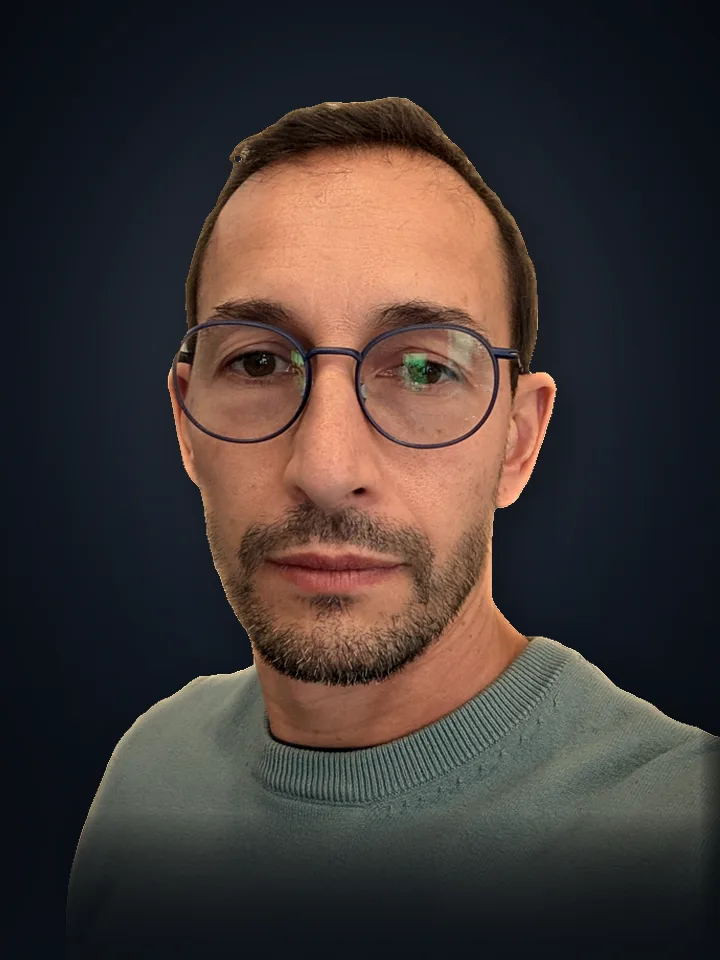
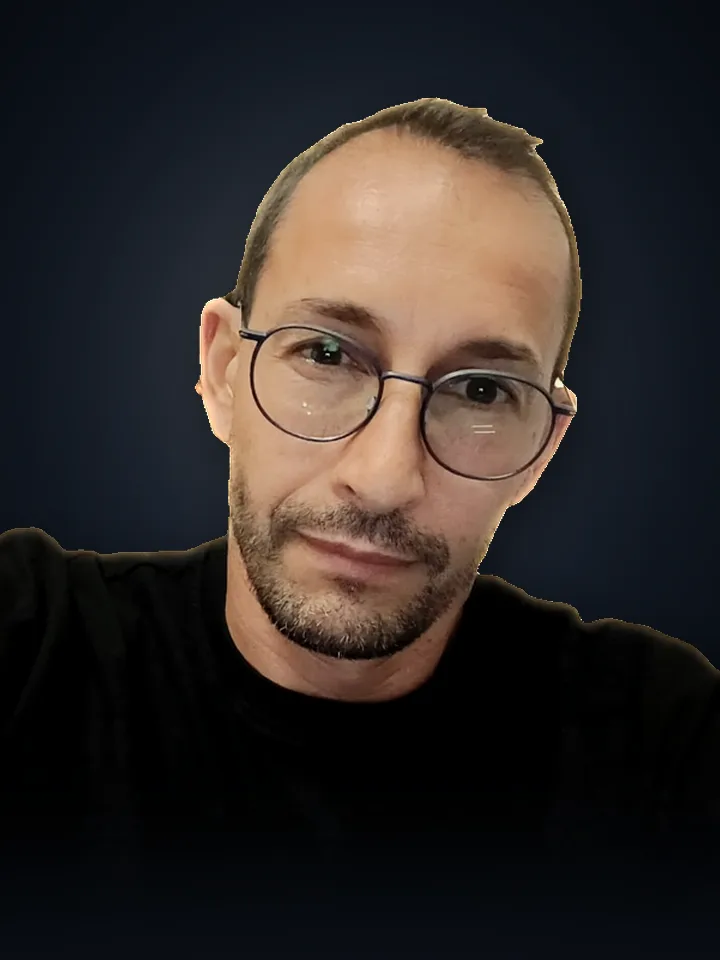
Títulos grandes ajustam-se à largura do ecrã (Android com texto aumentado cortava as letras) e nova foto do Orlando
Claude-Session: https://claude.ai/code/session_01TTX9f2C5L8zJ1uV9txTYkt

diff --git a/src/sections/Hero.tsx b/src/sections/Hero.tsx
@@ -4,12 +4,13 @@ import { useMotion } from '../context/MotionContext'
 import { useInView } from '../hooks/useInView'
 import { heroState } from '../three/state'
 import { chars } from '../lib/split'
+import { useFitLines } from '../hooks/useFitLines'
 
 const HeroScene = lazy(() => import('../three/HeroScene'))
 
 function Letters({ text, className }: { text: string; className?: string }) {
   return (
-    <span className={`mask ${className ?? ''}`} aria-hidden>
+    <span className={`hero-line mask ${className ?? ''}`} aria-hidden>
       <span className="flex justify-center">
         {chars(text).map((c, i) => (
           <span key={i} className="hero-char inline-block will-change-transform">
@@ -24,6 +25,8 @@ function Letters({ text, className }: { text: string; className?: string }) {
 export function Hero() {
   const root = useRef<HTMLElement>(null)
   const stage = useRef<HTMLDivElement>(null)
+  const title = useRef<HTMLHeadingElement>(null)
+  useFitLines(title, '.hero-line', '.hero-char')
   const { reduced, mobile, ready } = useMotion()
   const visible = useInView(root, '100px')
   // telemóvel: mostra a imagem renderizada do poste (igual ao 3D) e só carrega
@@ -116,7 +119,7 @@ export function Hero() {
         )}
 
         <div className="pointer-events-none absolute inset-0 flex h-full flex-col items-center justify-end pb-[12svh] text-center md:justify-center md:pb-0">
-          <h1 className="hero-title display relative z-0 text-cream" aria-label="Barbearia Orlando">
+          <h1 ref={title} className="hero-title display relative z-0 w-full text-cream" aria-label="Barbearia Orlando">
             <Letters text="BARBEARIA" className="text-[16.5vw] md:text-[12.5vw]" />
             <Letters text="ORLANDO" className="-mt-[0.06em] text-[16.5vw] md:text-[12.5vw]" />
           </h1>

diff --git a/src/hooks/useFitLines.ts b/src/hooks/useFitLines.ts
@@ -1,0 +1,39 @@
+import { useEffect, type RefObject } from 'react'
+
+/**
+ * Garante que as linhas de um título grande cabem na largura disponível.
+ * Alguns Android (ex.: navegador do Instagram, ou "tamanho de letra" do sistema aumentado)
+ * aumentam o texto e as letras ficavam cortadas; aqui mede-se cada linha e, se for mais
+ * larga do que o espaço, reduz-se só essa linha. Usa offsetLeft/offsetWidth (ignora as animações).
+ */
+export function useFitLines(root: RefObject<HTMLElement>, lineSelector: string, charSelector: string, margin = 0.96) {
+  useEffect(() => {
+    const el = root.current
+    if (!el) return
+    const fit = () => {
+      const lines = Array.from(el.querySelectorAll<HTMLElement>(lineSelector))
+      lines.forEach((l) => (l.style.fontSize = ''))
+      const avail = (el.parentElement ?? el).clientWidth * margin
+      lines.forEach((l) => {
+        const chars = Array.from(l.querySelectorAll<HTMLElement>(charSelector))
+        if (!chars.length) return
+        let min = Infinity
+        let max = -Infinity
+        chars.forEach((c) => {
+          min = Math.min(min, c.offsetLeft)
+          max = Math.max(max, c.offsetLeft + c.offsetWidth)
+        })
+        const w = max - min
+        if (w > avail) l.style.fontSize = `${(parseFloat(getComputedStyle(l).fontSize) * avail) / w}px`
+      })
+    }
+    fit()
+    document.fonts?.ready.then(fit)
+    window.addEventListener('resize', fit)
+    window.addEventListener('orientationchange', fit)
+    return () => {
+      window.removeEventListener('resize', fit)
+      window.removeEventListener('orientationchange', fit)
+    }
+  }, [root, lineSelector, charSelector, margin])
+}

diff --git a/src/sections/Marcar.tsx b/src/sections/Marcar.tsx
@@ -5,11 +5,14 @@ import { SITE } from '../data/site'
 import { BookButton, WhatsAppButton } from '../components/MagneticButton'
 import { chars } from '../lib/split'
 import { PinIcon } from '../components/Icons'
+import { useFitLines } from '../hooks/useFitLines'
 
 const LINES = ['Senta-te', 'na cadeira.']
 
 export function Marcar() {
   const root = useRef<HTMLElement>(null)
+  const title = useRef<HTMLHeadingElement>(null)
+  useFitLines(title, '.mk-line', '.mk-char')
 
   useScrollSetup(() => {
     const el = root.current
@@ -45,9 +48,9 @@ export function Marcar() {
       <div className="pointer-events-none absolute inset-0" style={{ background: 'radial-gradient(50% 40% at 70% 40%, rgba(168,50,45,.12), transparent 70%)' }} />
       <span className="label relative text-brass">Marcações</span>
       <div className="relative mt-6 grid items-center gap-12 md:grid-cols-[1fr_auto]">
-        <h2 className="display text-[19vw] text-cream md:text-[11vw]" aria-label="Senta-te na cadeira.">
+        <h2 ref={title} className="display text-[19vw] text-cream md:text-[11vw]" aria-label="Senta-te na cadeira.">
           {LINES.map((l, li) => (
-            <span key={li} className="block whitespace-nowrap" aria-hidden>
+            <span key={li} className="mk-line block whitespace-nowrap" aria-hidden>
               {chars(l).map((c, i) => (
                 <span key={i} className={`mk-char inline-block ${li === 1 && i >= 3 ? 'font-normal italic text-brass' : ''}`}>
                   {c === ' ' ? ' ' : c}
